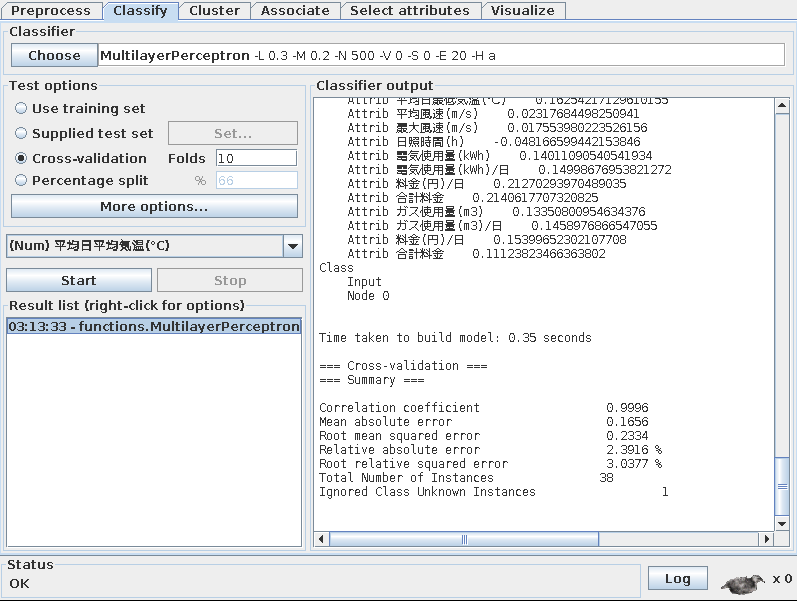
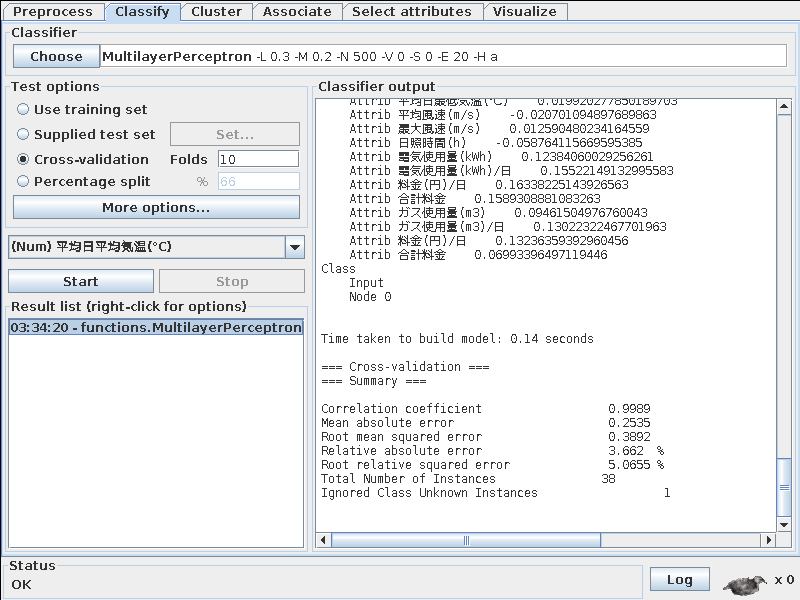
Add predicted.

Changed region(s): [[0.0, 0.0, 1.0, 1.0], [0.7528, 0.66, 0.8432, 0.81]]

diff --git a/debianmeetingresume201003.tex b/debianmeetingresume201003.tex
@@ -631,7 +631,30 @@ Start $B%\%?%s$r%/%j%C%/$9$k$HJ,N`$,<B9T$5$l!"7k2L$,I=<($5$l$^$9!#(B
 2010,3,?,?,?,?,?,?,?,?,?,?,?,?,?,?,?
 \end{commandline}
 
+$B$3$l$O$^$@:#7n$N%G!<%?$,=P$F$$$J$$$+$i$G$9!#$=$l$G$O!"$3$l$i$rM=B,$7$F$_(B
+$B$^$9!#@h$[$I$N(B Classify $B%?%V$N2hLL$G(B More options $B$r%/%j%C%/$7!"(BOutput
+predictions $B$N%A%'%C%/$rF~$l!"(BOK $B$r2!$7$^$9!#(B
 
+\begin{figure}[H]
+\begin{center}
+\caption{Classify $B$N(B More Options $B%@%$%"%m%0(B}
+\includegraphics[width=1.0\hsize]{image201003/weka8.png}
+\end{center}
+\end{figure}
+
+Start $B$r<B9T$9$k$H!"M=B,7k2L$,I=<($5$l$^$9!#(Bactual $B$,<B%G!<%?$G(B
+predicted $B$,M=B,7k2L$G$9!#:#2s8+$?$$$N$O!"(B3$B7n$NJ?6QF|J?6Q5$29$G$9!#(B
+actual $B$,(B ? $B$K$J$C$F$$$k9T$N!"(Bpredicted $B$NCM$r8+$k$H!"(B15.436 $B$H$J$C$F$$(B
+$B$^$9!#2a5nFI$_9~$^$;$?%G!<%?$+$i%K%e!<%i%k%M%C%H%o!<%/$G$NJ,@O$7$FM=B,$7(B
+$B$?7k2L!"$*$=$i$/0lF|$"$?$j$NJ?6Q5$29$O(B 15.4 $B!n(B $B$K$J$k$H$$$&M=B,$G$9!#Mh(B
+$B7n!"5$>]D#$NE}7W%G!<%?$,99?7$5$l$?$i3NG'$7$F$_$^$7$g$&!#(B
+
+\begin{figure}[H]
+\begin{center}
+\caption{$BM=B,7k2L(B}
+\includegraphics[width=1.0\hsize]{image201003/weka9.png}
+\end{center}
+\end{figure}
 
 \subsection{$B;29MJ88%(B}
 \begin{itemize}
